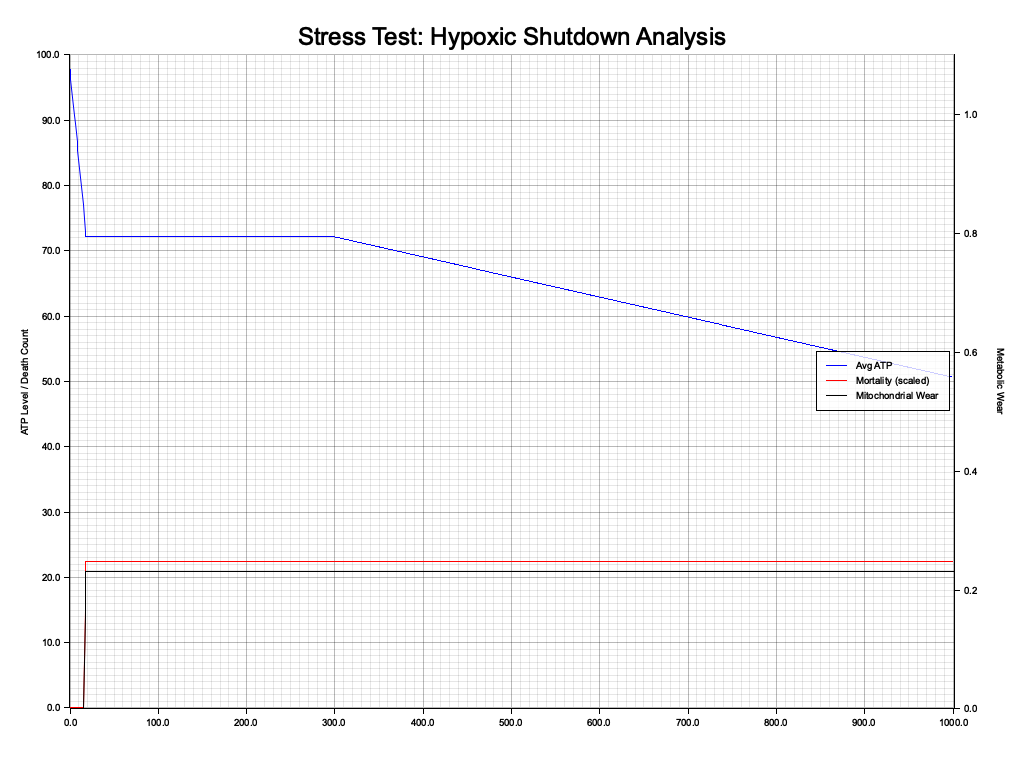
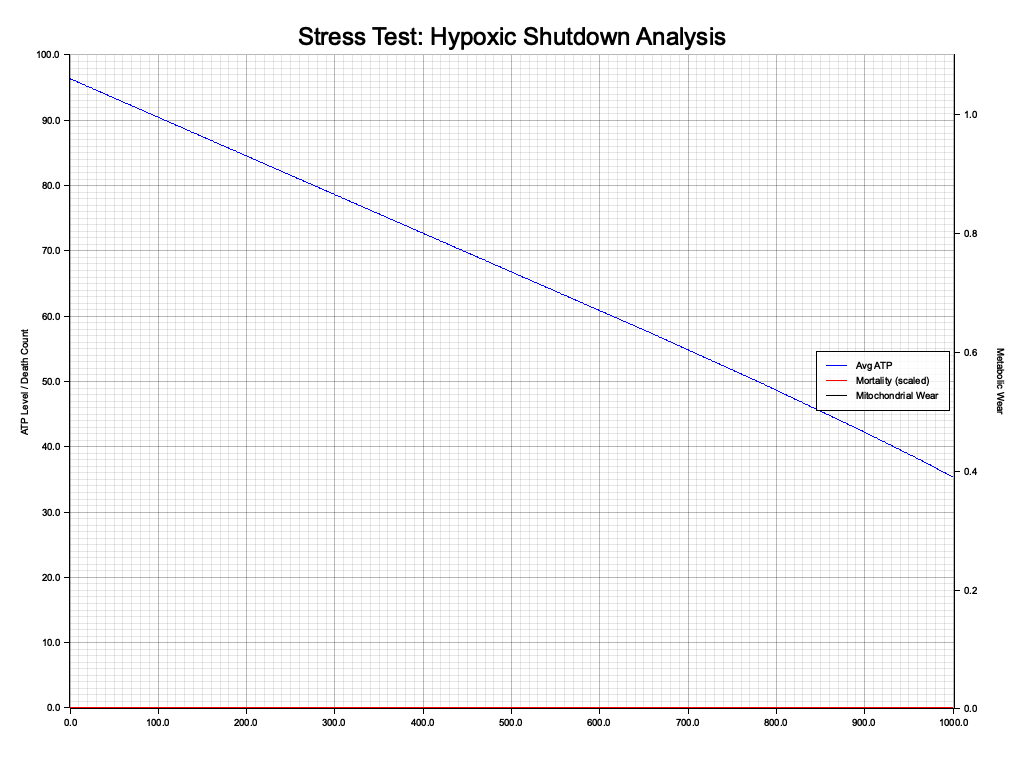
refactor: implement meaty biological realism
- Added Gaussian heterogeneity for all neuron types (Spec 11).
- Implemented Synaptic Saturation and Receptor Limits (Spec 08).
- Added spike-driven mitochondrial wear (mitochondrial aging).
- Enhanced dopamine modulation in synaptic summation.
- Synchronized Rust FFI with global randomization seed.

diff --git a/src/main.rs b/src/main.rs
@@ -59,6 +59,7 @@ fn run_benchmark_mode(neurons_count: usize, synapses_count: usize, total_ticks: 
         global_oxygen_level: 1.0,  
         dopamine_multiplier: 1.0, 
         toxin_levels: 0.0,
+        seed: 42,
     };
     
     let mut data = BenchmarkData {
@@ -212,6 +213,7 @@ fn run_simulation(mut graph: NetworkGraph, total_ticks: u32) -> SimulationData {
         global_oxygen_level: 1.0,  
         dopamine_multiplier: 1.0, 
         toxin_levels: 0.0,
+        seed: 1337,
     };
     
     for tick in 1..=total_ticks {
@@ -313,7 +315,7 @@ fn main() -> Result<(), Box<dyn std::error::Error>> {
 fn run_stress_test_mode() -> Result<(), Box<dyn std::error::Error>> {
     println!("--- EXECUTING STRESS-TEST (Phase 13) ---");
     let mut graph = NetworkGraph::new();
-    let mut env = Environment { global_oxygen_level: 1.0, dopamine_multiplier: 1.0, toxin_levels: 0.0 };
+    let mut env = Environment { global_oxygen_level: 1.0, dopamine_multiplier: 1.0, toxin_levels: 0.0, seed: 666 };
 
     // Case 1: Hypoxic Shutdown (10 Neurons)
     println!("Case 1: Hypoxic Shutdown...");
@@ -378,7 +380,7 @@ fn run_stress_test_mode() -> Result<(), Box<dyn std::error::Error>> {
 fn run_dopamine_rush_mode() -> Result<(), Box<dyn std::error::Error>> {
     println!("--- EXECUTING DOPAMINE RUSH (Phase 14) ---");
     let mut graph = NetworkGraph::new();
-    let mut env = Environment { global_oxygen_level: 1.0, dopamine_multiplier: 1.0, toxin_levels: 0.0 };
+    let mut env = Environment { global_oxygen_level: 1.0, dopamine_multiplier: 1.0, toxin_levels: 0.0, seed: 777 };
 
     // Setup: 2 Neurons with a weak connection
     let n1 = graph.add_neuron(NeuronType::Pacemaker); // Source fires constantly

diff --git a/src/ffi.rs b/src/ffi.rs
@@ -65,6 +65,7 @@ pub struct Environment {
     pub global_oxygen_level: f32,
     pub dopamine_multiplier: f32,
     pub toxin_levels: f32,
+    pub seed: u32,
 }
 
 #[link(name = "neuron_kernels", kind = "static")]
@@ -78,5 +79,5 @@ extern "C" {
         current_tick: u32
     );
     
-    pub fn init_neuron(neuron: *mut BaseNeuron, id: u32, type_: NeuronType);
+    pub fn init_neuron(neuron: *mut BaseNeuron, id: u32, type_: NeuronType, seed: u32);
 }

diff --git a/src/graph.rs b/src/graph.rs
@@ -37,8 +37,9 @@ impl NetworkGraph {
         };
         
         // Let C++ engine initialize the neuron biology exactly per Spec 05 & 11
+        // Using a combination of global seed and neuron ID
         unsafe {
-            init_neuron(&mut neuron, id, type_);
+            init_neuron(&mut neuron, id, type_, 42 + id);
         }
         
         self.neurons.push(neuron);

diff --git a/cuda/base_neuron.h b/cuda/base_neuron.h
@@ -100,6 +100,6 @@ typedef struct {
 
 // Orchestrator Function declarations
 void launch_tick_neurons(BaseNeuron* neurons, int count, Synapse* synapses, int syn_count, Environment env, uint32_t current_tick);
-void init_neuron(BaseNeuron* neuron, uint32_t id, NeuronType _type);
+void init_neuron(BaseNeuron* neuron, uint32_t id, NeuronType type, uint32_t seed);
 
 } // extern "C"
